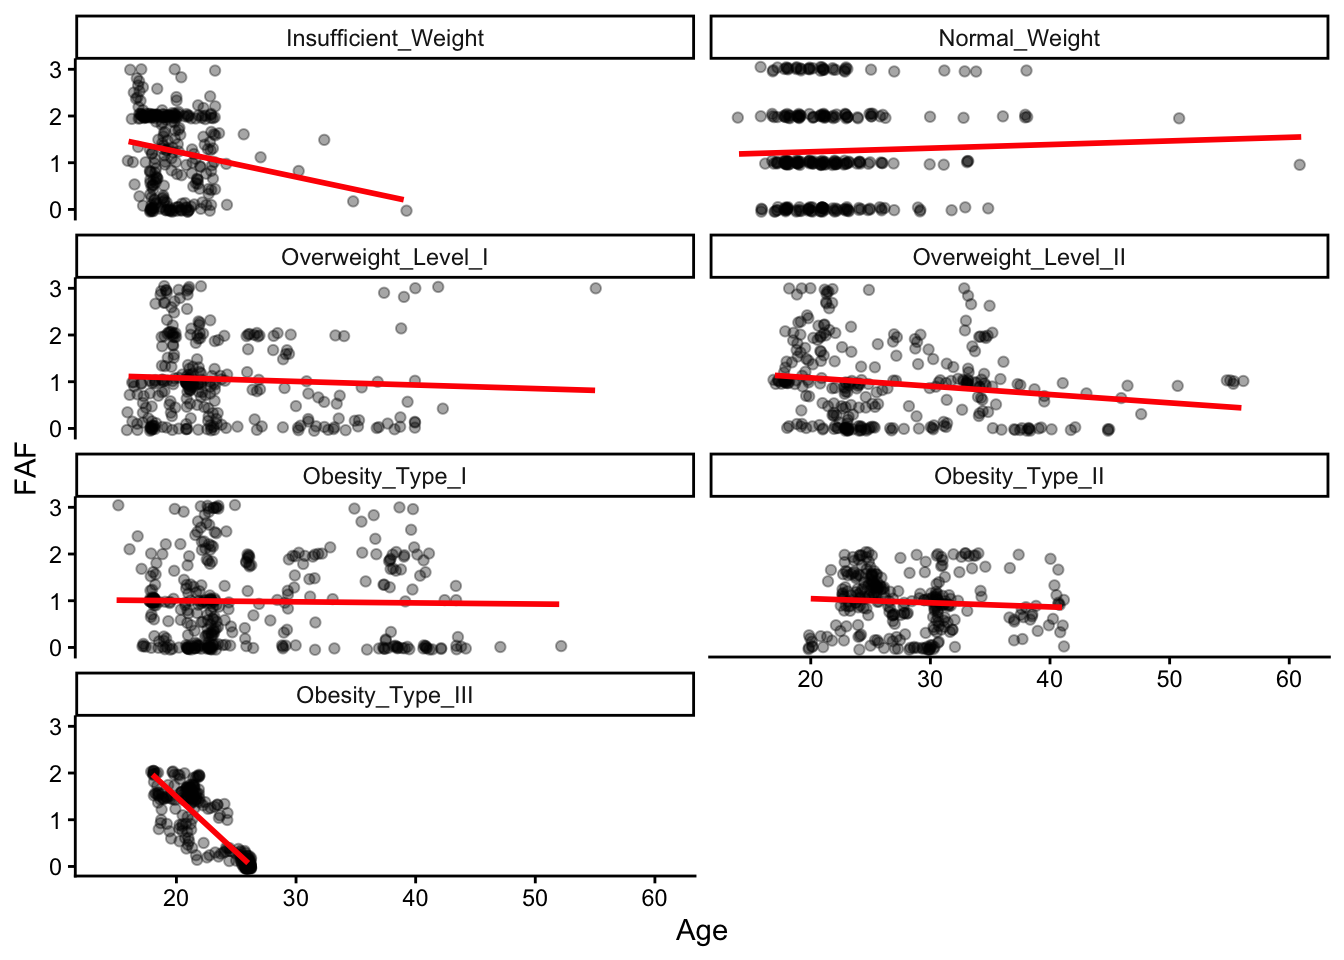
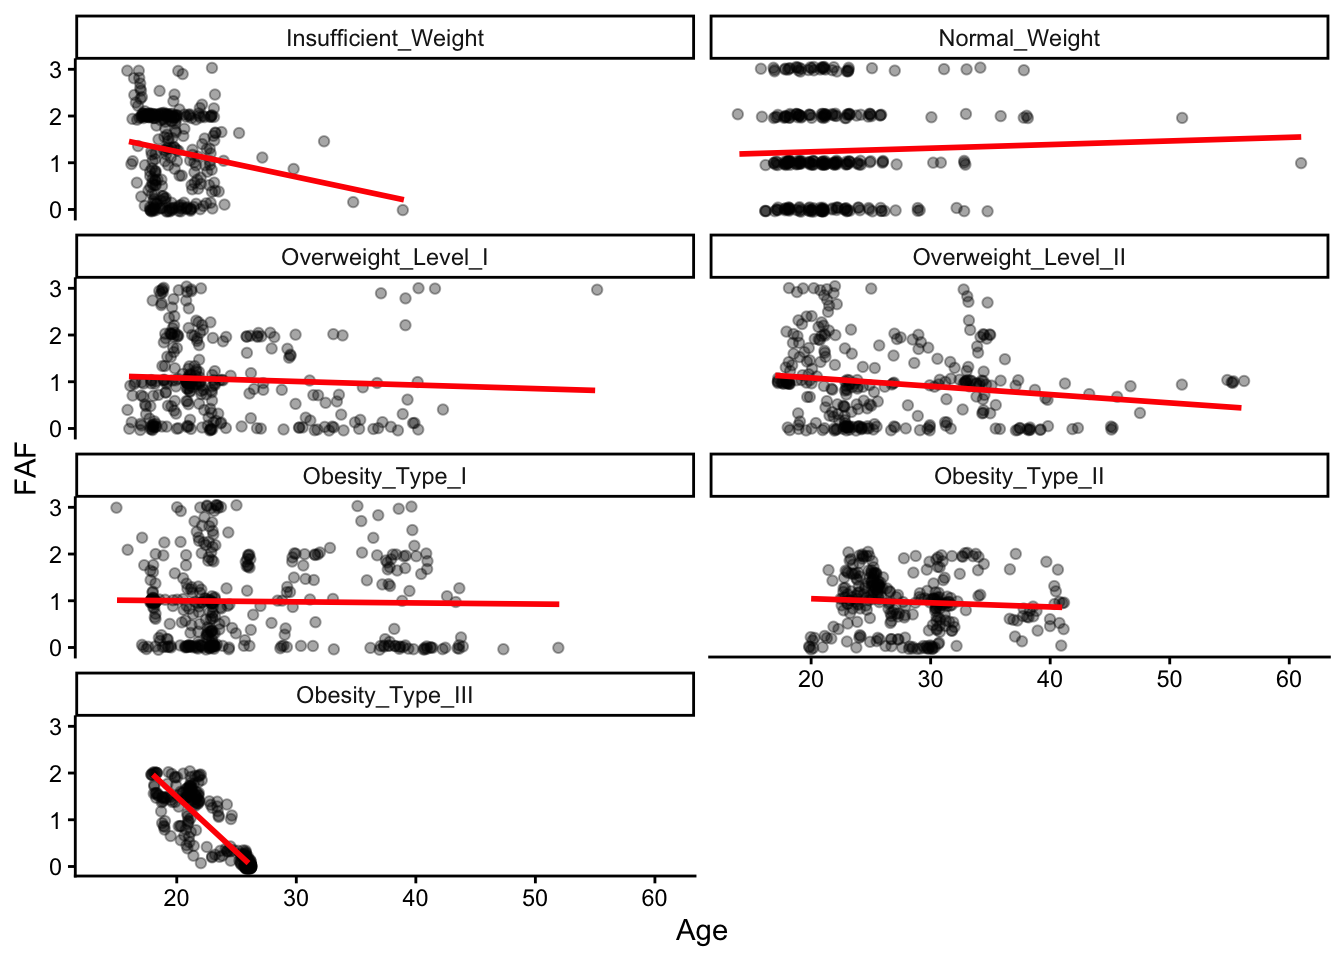
6

diff --git a/docs/projects/final-report.html b/docs/projects/final-report.html
@@ -160,15 +160,24 @@ pre > code.sourceCode > span > a:first-child::before { text-decoration: underlin
    
   <ul>
   <li><a href="#final-report-obesity" id="toc-final-report-obesity" class="nav-link active" data-scroll-target="#final-report-obesity">Final Report: [Obesity]</a>
-  <ul class="collapse">
+  <ul>
   <li><a href="#introduction" id="toc-introduction" class="nav-link" data-scroll-target="#introduction">Introduction</a></li>
   <li><a href="#methods" id="toc-methods" class="nav-link" data-scroll-target="#methods">Methods</a></li>
   <li><a href="#results" id="toc-results" class="nav-link" data-scroll-target="#results">Results</a>
   <ul class="collapse">
   <li><a href="#library" id="toc-library" class="nav-link" data-scroll-target="#library">Library</a></li>
   <li><a href="#structure-of-the-dataset-summary-statistics-missing-values-and-the-distribution-of-obesity-levels." id="toc-structure-of-the-dataset-summary-statistics-missing-values-and-the-distribution-of-obesity-levels." class="nav-link" data-scroll-target="#structure-of-the-dataset-summary-statistics-missing-values-and-the-distribution-of-obesity-levels.">Structure of the dataset, summary statistics, missing values, and the distribution of obesity levels.</a></li>
-  <li><a href="#family-history." id="toc-family-history." class="nav-link" data-scroll-target="#family-history.">FAMILY HISTORY.</a></li>
-  <li><a href="#physical-activity.-was-the-physical-activity-data-normally-distributed" id="toc-physical-activity.-was-the-physical-activity-data-normally-distributed" class="nav-link" data-scroll-target="#physical-activity.-was-the-physical-activity-data-normally-distributed">PHYSICAL ACTIVITY. Was the physical activity data normally distributed?</a></li>
+  <li><a href="#family-history." id="toc-family-history." class="nav-link" data-scroll-target="#family-history.">FAMILY HISTORY.</a>
+  <ul class="collapse">
+  <li><a href="#how-did-family-history-of-obesity-vary-across-the-different-obesity-levels" id="toc-how-did-family-history-of-obesity-vary-across-the-different-obesity-levels" class="nav-link" data-scroll-target="#how-did-family-history-of-obesity-vary-across-the-different-obesity-levels">How did family history of obesity vary across the different obesity levels?</a></li>
+  </ul></li>
+  <li><a href="#physical-activity.-was-the-physical-activity-data-normally-distributed" id="toc-physical-activity.-was-the-physical-activity-data-normally-distributed" class="nav-link" data-scroll-target="#physical-activity.-was-the-physical-activity-data-normally-distributed">PHYSICAL ACTIVITY. Was the physical activity data normally distributed?</a>
+  <ul class="collapse">
+  <li><a href="#how-do-the-physical-activity-levels-compare-across-obesity-levels" id="toc-how-do-the-physical-activity-levels-compare-across-obesity-levels" class="nav-link" data-scroll-target="#how-do-the-physical-activity-levels-compare-across-obesity-levels">How do the physical activity levels compare across obesity levels?</a></li>
+  <li><a href="#how-do-physical-activity-levels-compare-across-obesity-levels-and-between-genders" id="toc-how-do-physical-activity-levels-compare-across-obesity-levels-and-between-genders" class="nav-link" data-scroll-target="#how-do-physical-activity-levels-compare-across-obesity-levels-and-between-genders">How do physical activity levels compare across obesity levels and between genders?</a></li>
+  <li><a href="#how-do-physical-activity-levels-vary-across-obesity-levels-and-family-history-groups" id="toc-how-do-physical-activity-levels-vary-across-obesity-levels-and-family-history-groups" class="nav-link" data-scroll-target="#how-do-physical-activity-levels-vary-across-obesity-levels-and-family-history-groups">How do physical activity levels vary across obesity levels and family history groups?</a></li>
+  <li><a href="#how-does-physical-activity-vary-with-age-across-obesity-levels" id="toc-how-does-physical-activity-vary-with-age-across-obesity-levels" class="nav-link" data-scroll-target="#how-does-physical-activity-vary-with-age-across-obesity-levels">How does physical activity vary with age across obesity levels?</a></li>
+  </ul></li>
   <li><a href="#high-calorie-foods-intake-favc.-is-the-consumption-of-high-calorie-foods-favc-associated-with-obesity-level" id="toc-high-calorie-foods-intake-favc.-is-the-consumption-of-high-calorie-foods-favc-associated-with-obesity-level" class="nav-link" data-scroll-target="#high-calorie-foods-intake-favc.-is-the-consumption-of-high-calorie-foods-favc-associated-with-obesity-level">HIGH-CALORIE FOODS INTAKE (FAVC). Is the consumption of high-calorie foods (FAVC) associated with obesity level?</a></li>
   </ul></li>
   <li><a href="#conclusions" id="toc-conclusions" class="nav-link" data-scroll-target="#conclusions">Conclusions</a></li>
